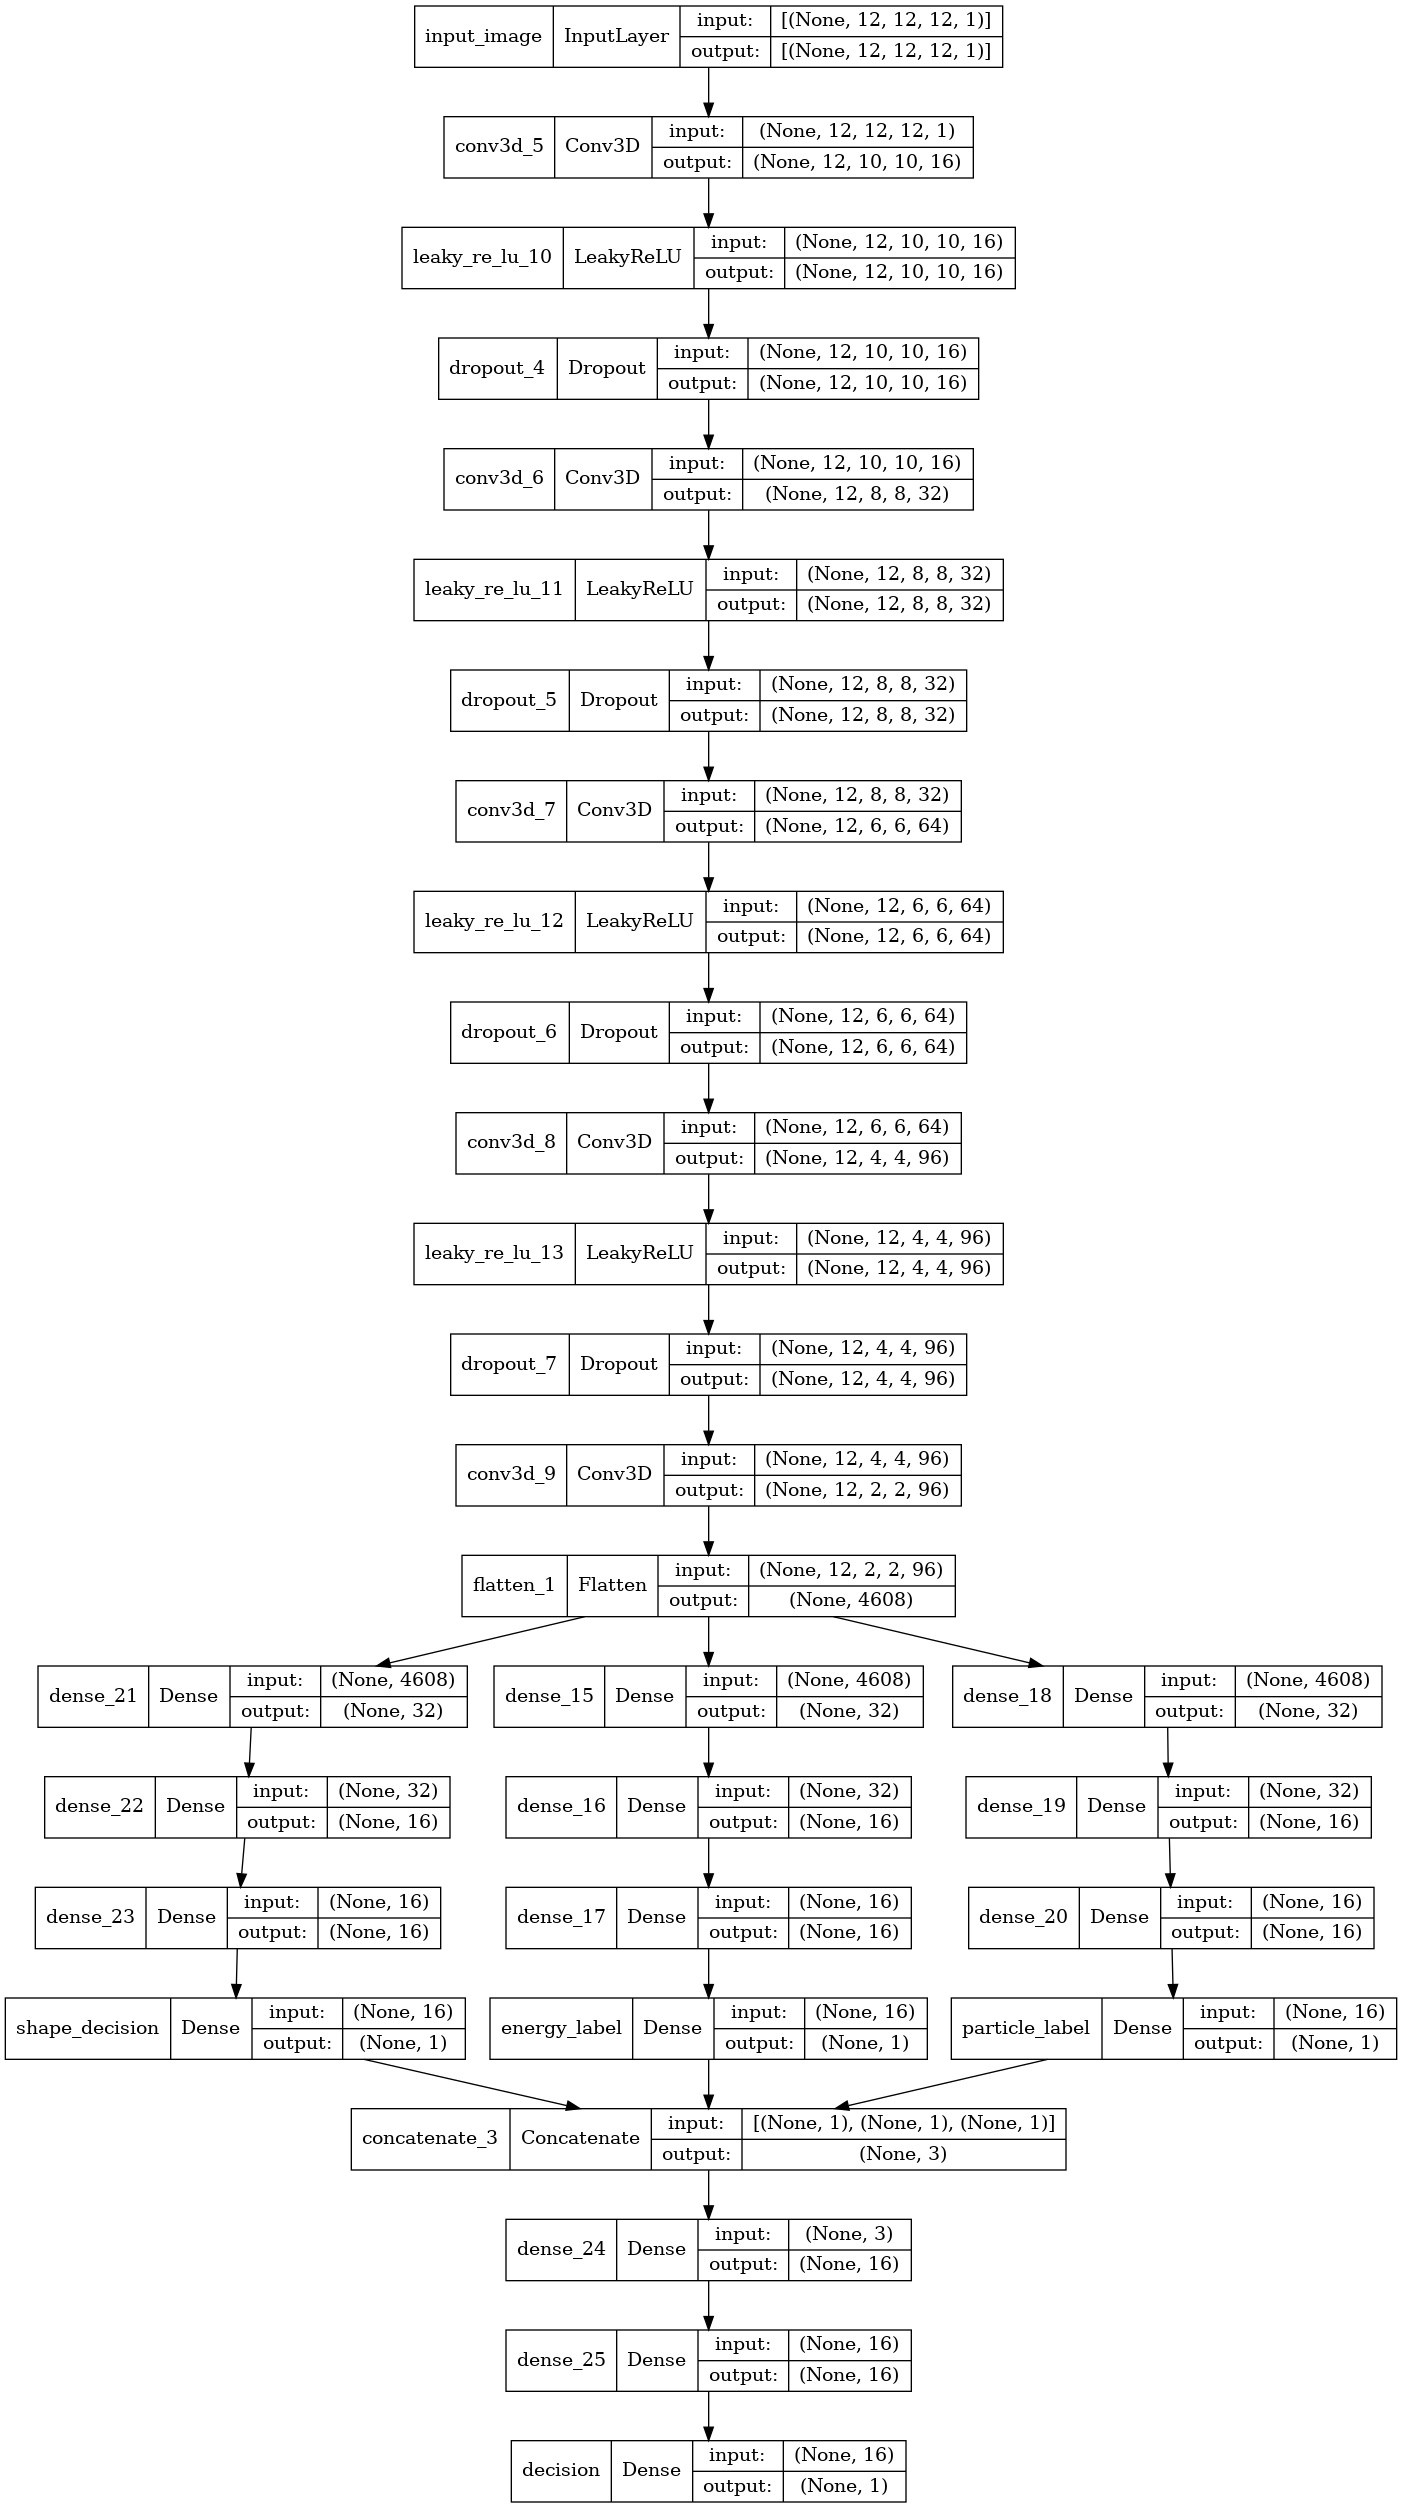
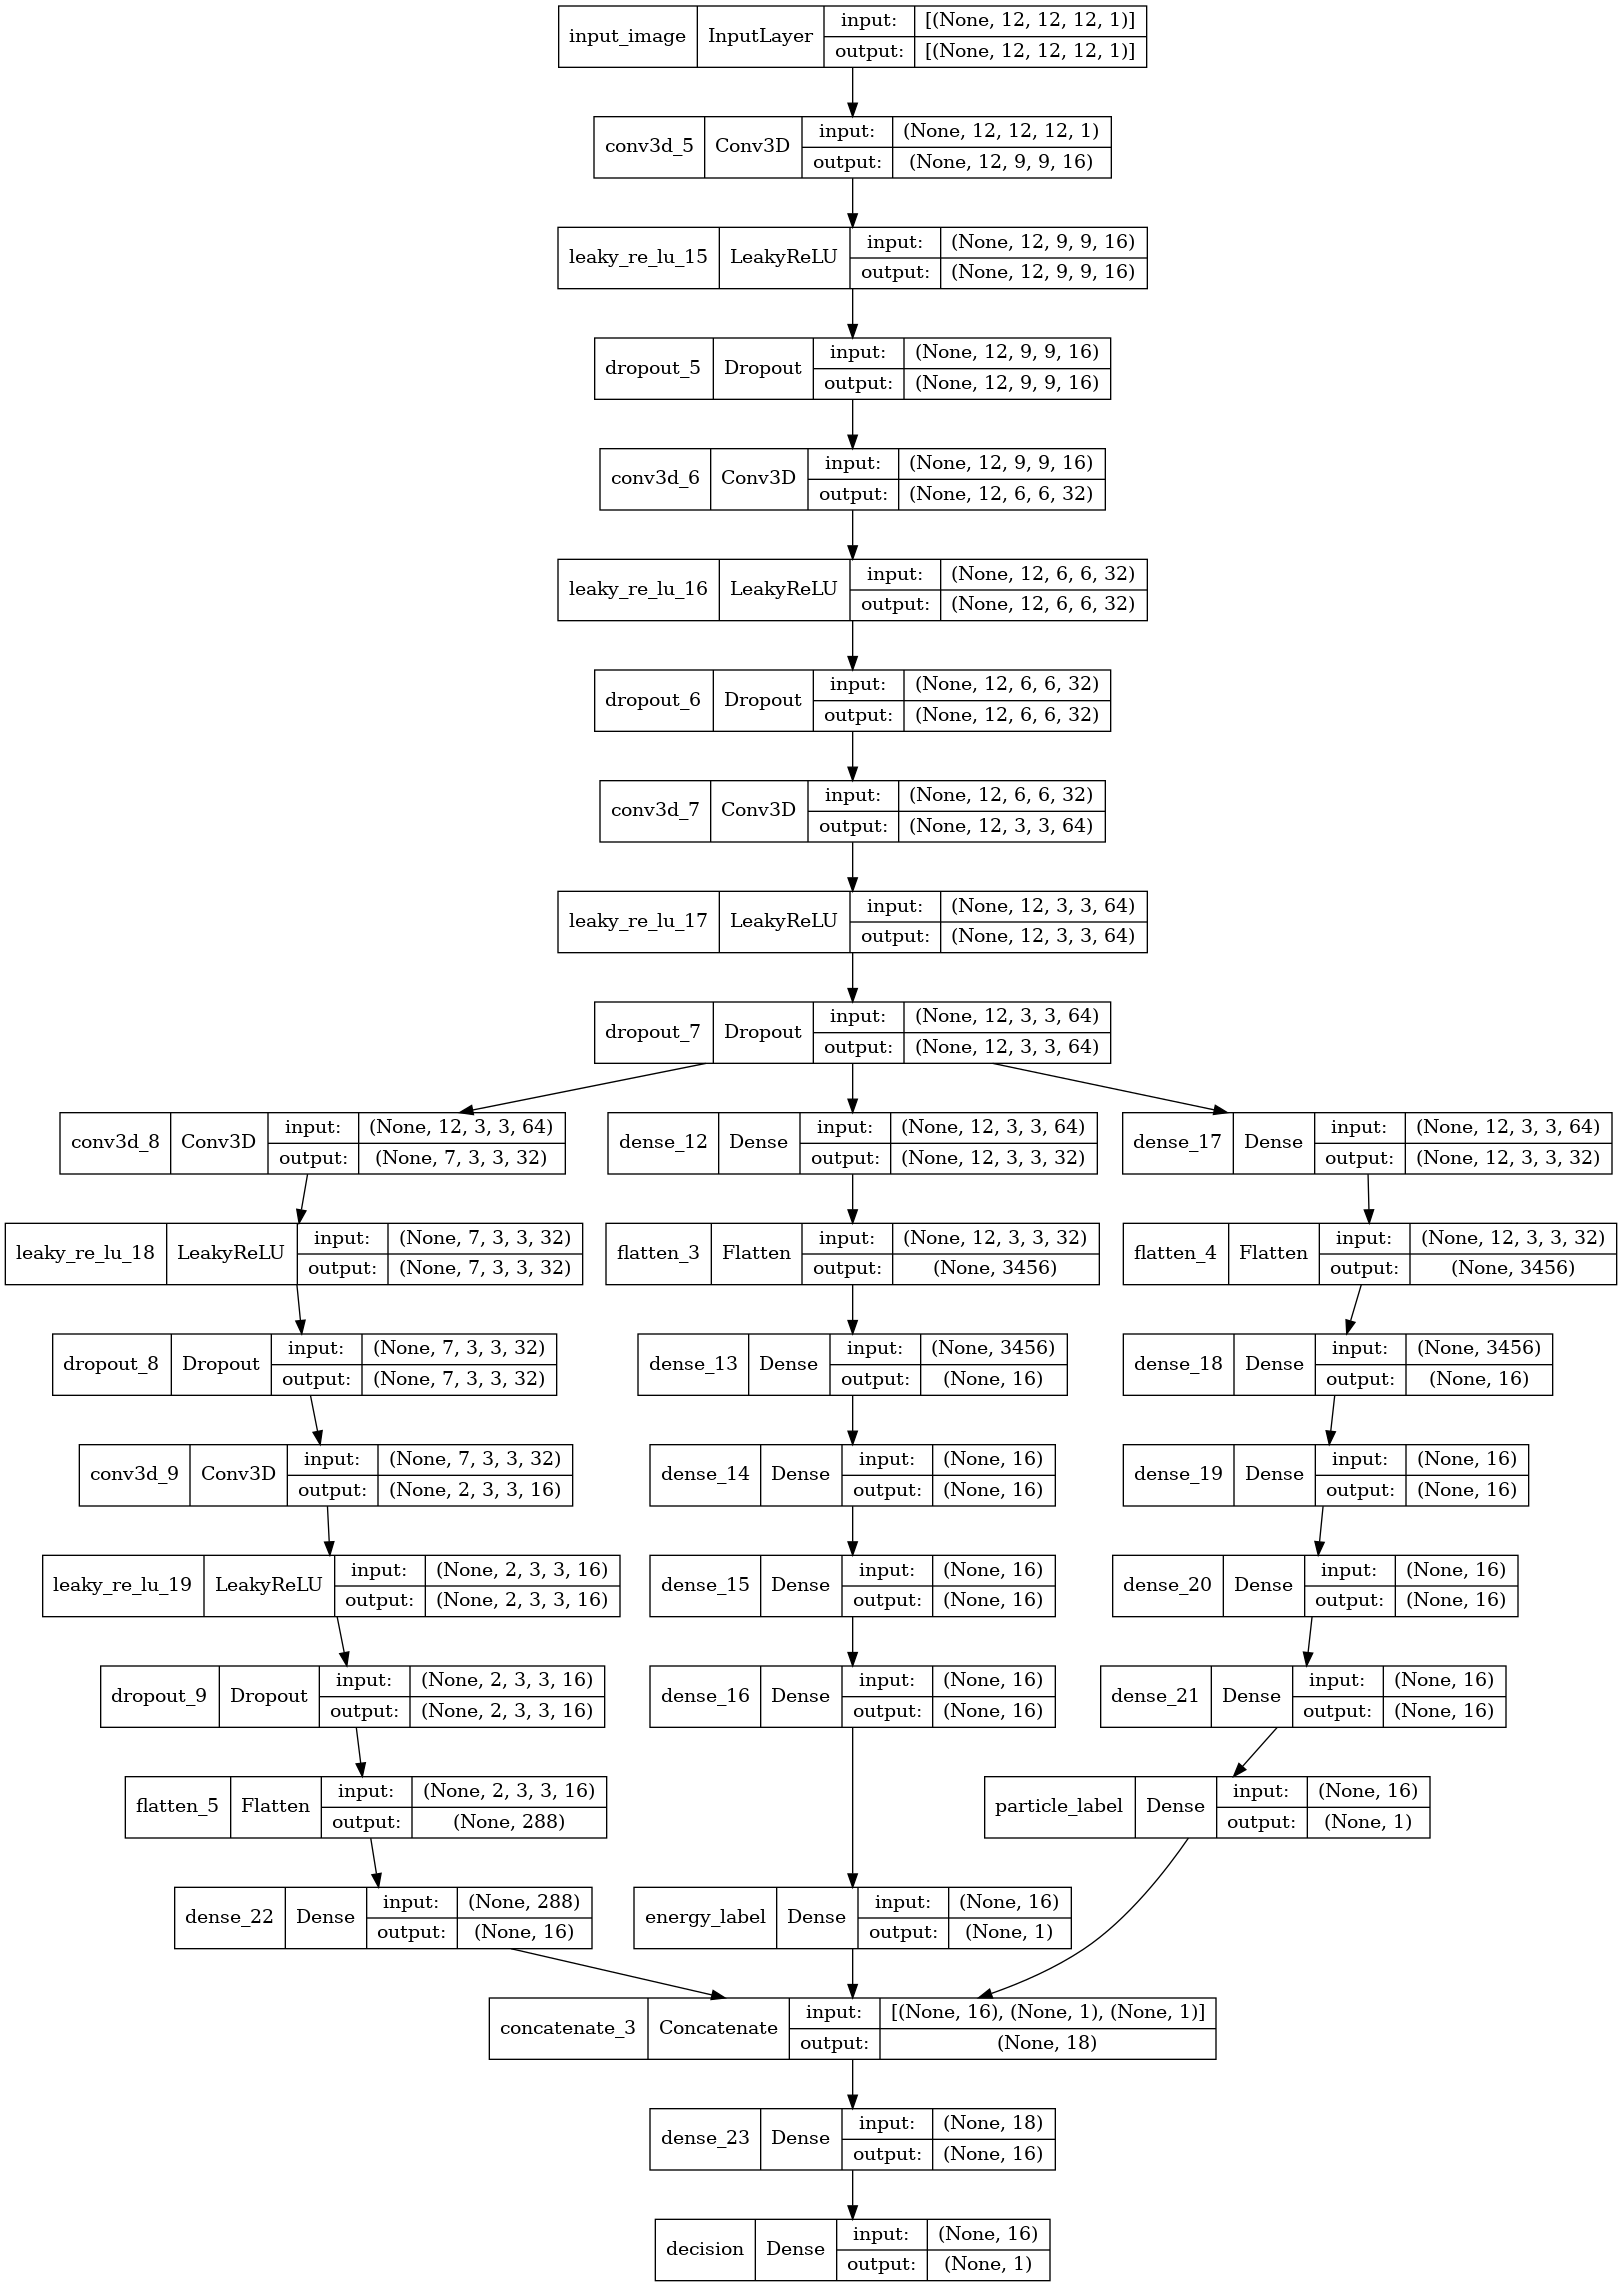
Discrim over layers and more deep generator. Less paramenter ever.

diff --git a/EM_shower_simulator/make_models_C.py b/EM_shower_simulator/make_models_C.py
@@ -52,15 +52,12 @@ def make_generator_model():
     layer that creates a sort of lookup-table (vector[EMBED_DIM] of floats) that
     categorizes the labels in N_CLASSES * classes.
     """
-    BASE = 4
-    FILTER = 8
-    EMBED_DIM = 8
-    KERNEL = (1, 3, 3)
+    BASE = 4 # NOISE_DIM is multiple of BASE^3
+    FILTER = 16
+    KERNEL = (3, 5, 5)
 
-    n_nodes = 1
-    image_shape = (GEOMETRY[0], BASE, BASE, FILTER)
-    for cell in image_shape:
-        n_nodes = n_nodes * cell
+    EMBED_DIM = BASE*BASE*BASE
+    image_shape = (BASE, BASE, BASE, -1)
 
     # Input[i] -> input[i] + convolution * (KERNEL-1)
     error = "ERROR building the generator: shape different from geometry!"
@@ -75,36 +72,43 @@ def make_generator_model():
 
     # Combine noise and energy
     gen = Multiply()([li_lat, li_en])
-    gen = Reshape((NOISE_DIM,))(gen)
+    gen = Reshape(image_shape)(gen)
 
     # ParticleID label input
     pid_label = Input(shape=(1,), name="particle_input")
     li_pid = Embedding(N_PID, EMBED_DIM)(pid_label)
-    li_pid = Reshape((EMBED_DIM,))(li_pid)
+    li_pid = Reshape(image_shape)(li_pid)
 
     # Combine at last particle ID
     gen = Concatenate()([gen, li_pid])
     logger.info(gen.get_shape())
-    gen = Dense(2*NOISE_DIM)(gen)
-    gen = Dense(n_nodes)(gen)
-    gen = Reshape(image_shape)(gen)
 
-    gen = Conv3DTranspose(4*FILTER, KERNEL)(gen)
+    gen = Conv3DTranspose(2*FILTER, KERNEL, padding="same", strides=(2,1,1))(gen)
     logger.info(gen.get_shape())
     gen = BatchNormalization()(gen)
     gen = LeakyReLU(alpha=0.2)(gen)
 
-    gen = Conv3DTranspose(8*FILTER, KERNEL)(gen)
+    gen = Conv3DTranspose(4*FILTER, KERNEL, padding="same")(gen)
     logger.info(gen.get_shape())
     gen = BatchNormalization()(gen)
     gen = LeakyReLU(alpha=0.2)(gen)
 
-    gen = Conv3DTranspose(4*FILTER, KERNEL)(gen)
+    gen = Conv3DTranspose(6*FILTER, KERNEL, padding="same")(gen)
     logger.info(gen.get_shape())
     gen = BatchNormalization()(gen)
     gen = LeakyReLU(alpha=0.2)(gen)
 
-    output = (Conv3DTranspose(1, KERNEL, activation="tanh", name="fake_image")(gen))
+    gen = Conv3DTranspose(3*FILTER, KERNEL, padding="same")(gen)
+    logger.info(gen.get_shape())
+    gen = BatchNormalization()(gen)
+    gen = LeakyReLU(alpha=0.2)(gen)
+
+    gen = Conv3DTranspose(FILTER, KERNEL)(gen)
+    logger.info(gen.get_shape())
+    gen = BatchNormalization()(gen)
+    gen = LeakyReLU(alpha=0.2)(gen)
+
+    output = (Conv3DTranspose(1, KERNEL, activation="tanh", name="image")(gen))
 
     logger.info(f"Shape of the generator output: {output.get_shape()}")
     assert output.get_shape().as_list()==[None, *GEOMETRY], error
@@ -170,7 +174,8 @@ def make_discriminator_model():
     categorizes the labels in N_CLASSES * classes.
     """
     FILTER = 16
-    KERNEL = (1, 3, 3)
+    KERNEL = (1, 4, 4)
+    KERNEL2 = (6, 1, 1)
 
     n_nodes = 1
     for cell in GEOMETRY:
@@ -179,7 +184,7 @@ def make_discriminator_model():
     # padding="same" add a 0 to borders, "valid" use only available data !
     # Output of convolution = (input + 2padding - kernel) / strides + 1 !
     # Here we use padding default = "valid" (=0 above) and strides = 1 !
-    # GEOMETRY[i] -> GEOMETRY[i] - 3convolution * (KERNEL[i] - 1) > 0 !
+    # GEOMETRY[i] -> GEOMETRY[i] - 5convolution * (KERNEL[i] - 1) > 0 !
     error = "ERROR building the discriminator: smaller KERNEL is required!"
 
     # Image input
@@ -200,33 +205,35 @@ def make_discriminator_model():
     discr = LeakyReLU()(discr)
     discr = Dropout(0.2)(discr)
 
-    discr = Conv3D(6*FILTER, KERNEL, use_bias=False)(discr)
-    logger.info(discr.get_shape())
-    discr = LeakyReLU()(discr)
-    discr = Dropout(0.2)(discr)
-
-    discr = Conv3D(6*FILTER, KERNEL, use_bias=False)(discr)
-    logger.info(discr.get_shape())
-    discr = Flatten()(discr)
-
     discr_en = Dense(2*FILTER, activation="relu")(discr)
+    discr_en = Flatten()(discr_en)
+    discr_en = Dense(FILTER, activation="relu")(discr_en)
+    discr_en = Dense(FILTER, activation="relu")(discr_en)
     discr_en = Dense(FILTER, activation="relu")(discr_en)
     discr_en = Dense(FILTER, activation="relu")(discr_en)
     output_en = Dense(1, activation="relu", name="energy_label")(discr_en)
 
     discr_id = Dense(2*FILTER, activation="relu")(discr)
+    discr_id = Flatten()(discr_id)
+    discr_id = Dense(FILTER, activation="relu")(discr_id)
+    discr_id = Dense(FILTER, activation="relu")(discr_id)
     discr_id = Dense(FILTER, activation="relu")(discr_id)
     discr_id = Dense(FILTER, activation="relu")(discr_id)
     output_id = Dense(1, activation="sigmoid", name="particle_label")(discr_id)
 
-    discr_conv = Dense(2*FILTER, activation="relu")(discr)
-    discr_conv = Dense(FILTER, activation="relu")(discr_conv)
-    discr_conv = Dense(FILTER, activation="relu")(discr_conv)
-    conv = Dense(1, activation="sigmoid", name="shape_decision")(discr_conv)
-
-    merge = Concatenate()([conv, output_en, output_id])
-    discr = Dense(FILTER, activation="relu")(merge)
+    discr = Conv3D(2*FILTER, KERNEL2)(discr)
+    logger.info(discr.get_shape())
+    discr = LeakyReLU()(discr)
+    discr = Dropout(0.2)(discr)
+    discr = Conv3D(FILTER, KERNEL2)(discr)
+    logger.info(discr.get_shape())
+    discr = LeakyReLU()(discr)
+    discr = Dropout(0.2)(discr)
+    discr = Flatten()(discr)
     discr = Dense(FILTER, activation="relu")(discr)
+
+    merge = Concatenate()([discr, output_en, output_id])
+    discr = Dense(FILTER, activation="relu")(merge)
     output_conv = Dense(1, activation="sigmoid", name="decision")(discr)
 
     output = [output_conv, output_en, output_id]

diff --git a/EM_shower_simulator/class_GAN_C.py b/EM_shower_simulator/class_GAN_C.py
@@ -32,8 +32,8 @@ ENERGY_SCALE = 1000000.
 
 # Create a random seed, to be used during the evaluation of the cGAN.
 tf.random.set_seed(42)
-num_examples = 8
-test_noise = [tf.random.normal([num_examples, NOISE_DIM]),
+num_examples = 6
+test_noise = [tf.random.normal([num_examples, NOISE_DIM], stddev=0.3),
               tf.random.uniform([num_examples, 1], minval= 0., maxval=N_ENER),
               tf.random.uniform([num_examples, 1], minval= 0., maxval=N_PID)]
 
@@ -301,14 +301,13 @@ class ConditionalGAN(tf.keras.Model):
             real_energ = mean_squared(en_labels, real_output[1])
 
             parID = tf.math.abs(tf.math.add(pid_labels, -1))
-            fake_parID = c_entropy(parID, fake_output[2])
+            # fake_parID = c_entropy(parID, fake_output[2])
             real_parID = c_entropy(parID, real_output[2])
 
-            aux_gener_loss = computed_loss * 0.05 #+ fake_parID
-            aux_discr_loss = (real_energ + fake_energ) * 0.025 + real_parID * 0.1
+            aux_discr_loss = (real_energ+fake_energ) * 0.025 + real_parID * 0.1
 
             # Compute total losses
-            gener_loss = aux_gener_loss - fake_loss
+            gener_loss =  computed_loss * 0.05 - fake_loss
             discr_loss = aux_discr_loss + real_loss + fake_loss
 
         grad_generator = gen_tape.gradient(gener_loss,
